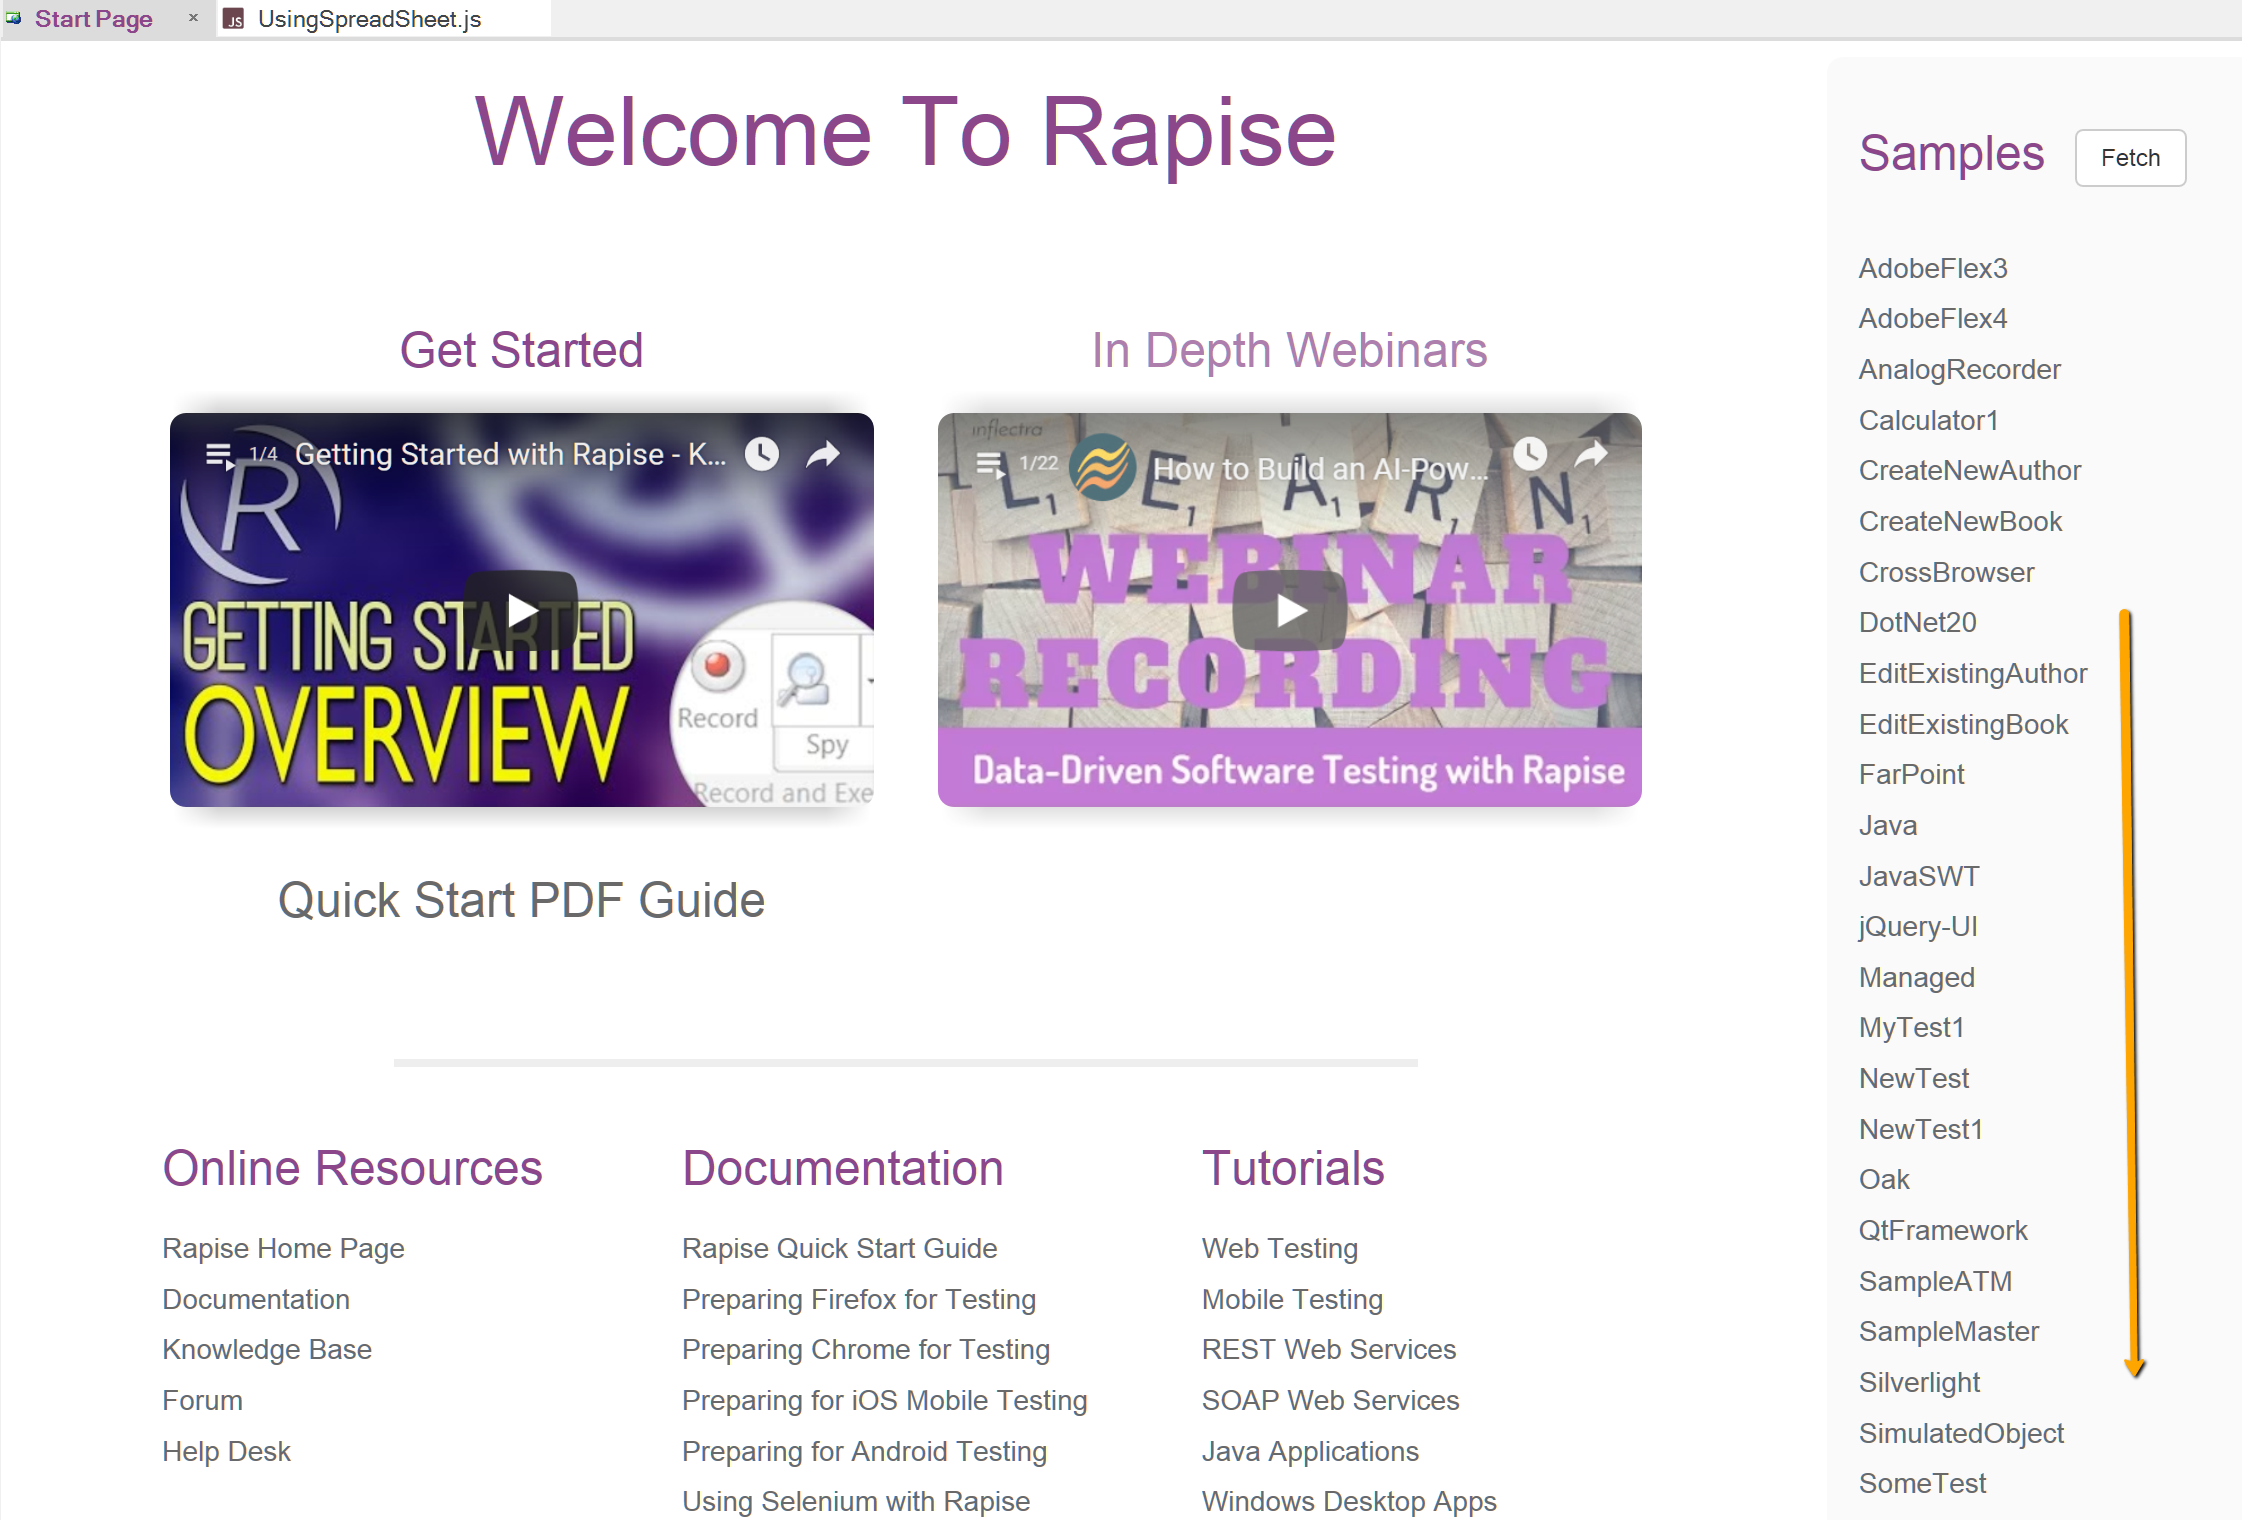
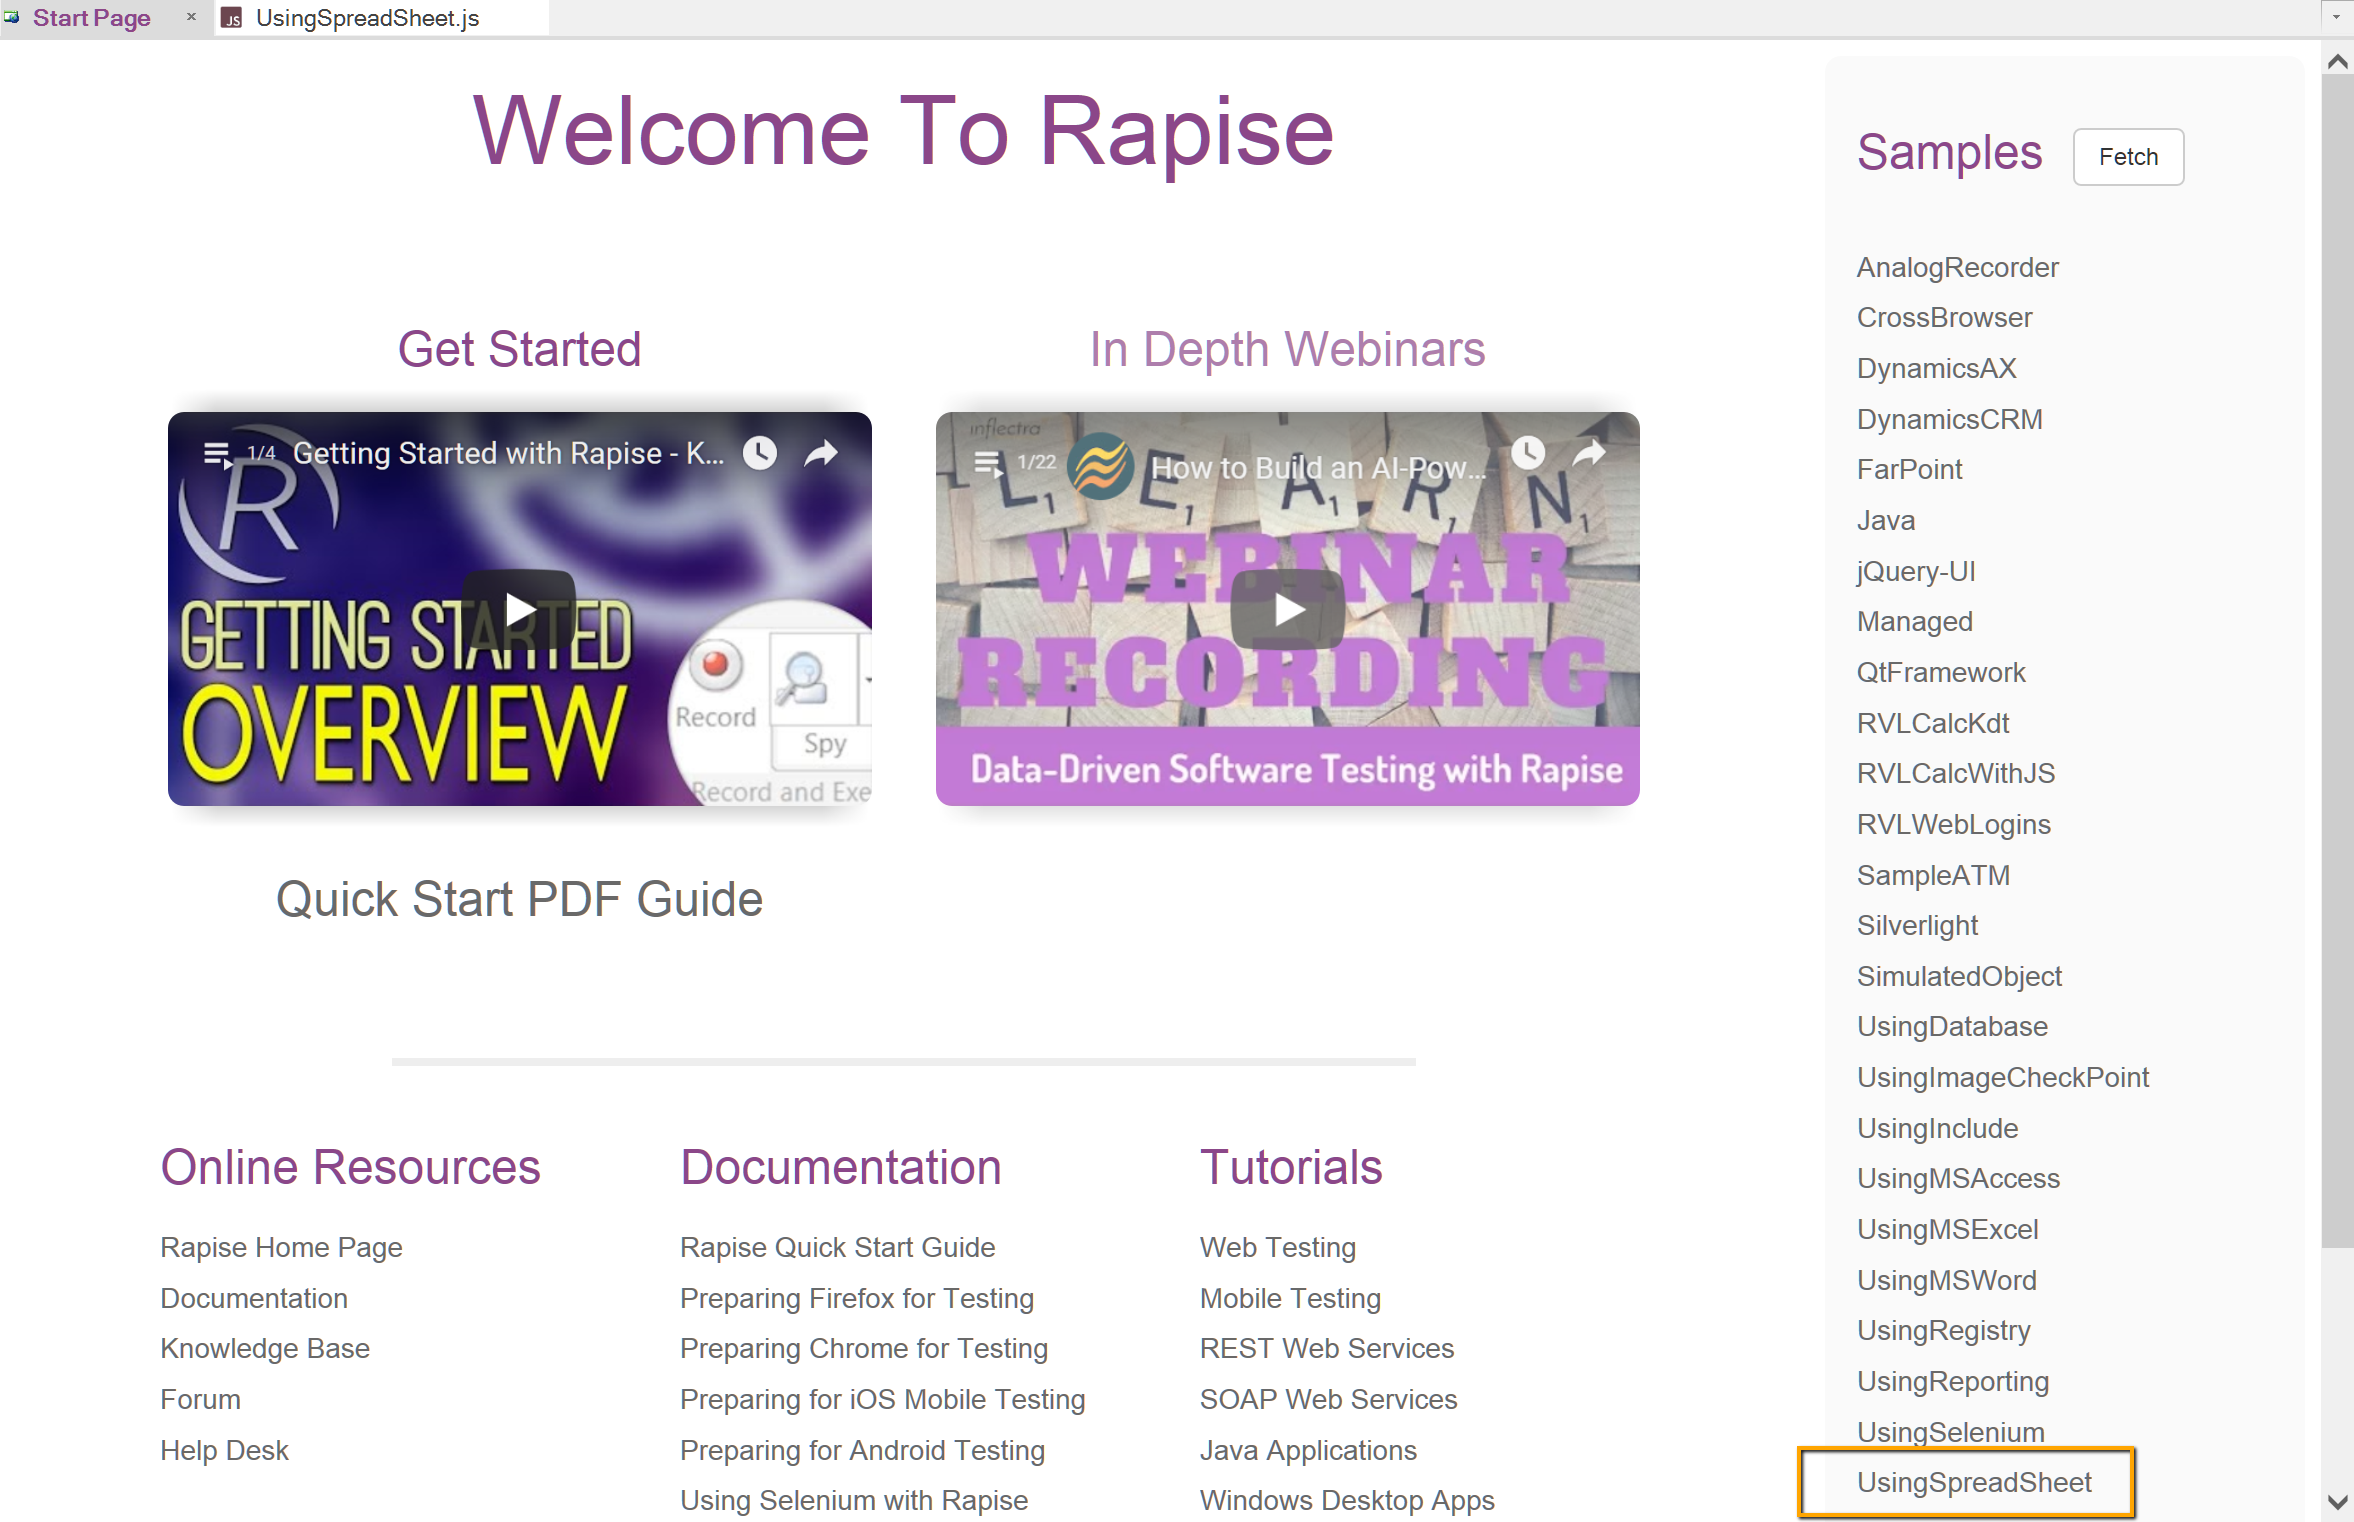
SS updated

diff --git a/docs/Guide/ddt.md b/docs/Guide/ddt.md
@@ -114,7 +114,7 @@ Description of all Spreadsheet actions and properties is available [here](/Libra
 
 Open `UsingSpreadsheet` sample test from the start page to see a working example (scroll the list of samples down).
 
-<img src="/Guide/img/ddt_sampletest.png" width="1121" />
+<img src="/Guide/img/ddt_sampletest.png" width="1177" />
 
 ## See Also
 
